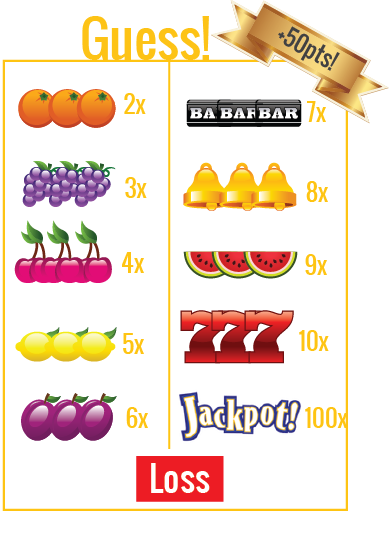
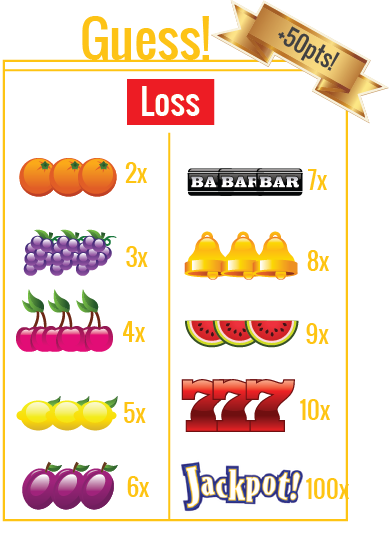
Updates to scoreboard positioning.

diff --git a/cstcg_slot_functions.py b/cstcg_slot_functions.py
@@ -164,17 +164,17 @@ def process_rtb(positions,index, stage, hold_on):
     return events
 
 def selector(c,task,positions,index,selector_pos):
-    sel_positions=[(8,445), # orange
-               (8,525), # grape
-               (8,608), # cherry
-               (8,679), # lemon
-               (8,755), # plum
-               (180,445), # bar
-               (180,530), # bell
-               (180,600), # watermelon
-               (180,682), # seven
-               (180,755), # jackpot
-               (100,800)] # loss
+    sel_positions=[(100,445), # loss
+               (8,530), # orange
+               (8,608), # grape 
+               (8,679), # cherry 
+               (8,755), # lemon 
+               (8,800), # plum
+               (180,530), # bar 
+               (180,600), # bell 
+               (180,682), # watermelon
+               (180,755), # seven
+               (180,800)] # jackpot
 
     pos = sel_positions[selector_pos-1]
     selected = False
@@ -254,19 +254,6 @@ def get_screen_elements(c, task):
 
     positions['pull_x'] = c.center_x+(sizes['sh']/9) - x0
     positions['pull_y'] = c.center_y+(sizes['sh']/2)-(sizes['sbh']*1.1) - hold_offset
-    # else:
-    #     positions['clear_x'] = positions['bet_5_x']
-    #     positions['clear_y'] = c.center_y+(sizes['sh']/3)+2*sizes['sbw']/3 - hold_offset
-    #     positions['bet_5_x'] = c.left_center_x+(sizes['sh']/9) - x0
-    #     positions['bet_5_y'] = c.center_y+(sizes['sh']/3) - hold_offset
-
-    #     positions['bet_10_x'] = c.left_center_x+(0.32*sizes['sh']) - x0
-    #     positions['bet_10_y'] = c.center_y+(sizes['sh']/3) - hold_offset
-    #     positions['stop_y'] = c.center_y+(sizes['sh']/3) - hold_offset
-
-    #     positions['pull_x'] = c.center_x+(sizes['sh']/9) - x0
-    #     positions['pull_y'] = c.center_y+(sizes['sh']/3)-(sizes['sbh']*1.1) - hold_offset
-    
     positions['bet_screen_x'] = positions['bet_5_x']
     positions['bet_screen_y'] = positions['pull_y']
 
@@ -544,19 +531,19 @@ def instruction_screen(c,positions,sizes,RTB):
                 if event.type in (MOUSEBUTTONUP, MOUSEBUTTONDOWN):
                     if 'click' in next_button.handleEvent(event): 
                         counter += 1
-                        if counter == 8:
+                        if counter == len(instructions)+1:
                             instructions_done = True
                     elif 'click' in back_button.handleEvent(event):
                         if counter > 1:
                             counter  = counter - 1
-                if event.type == MOUSEBUTTONUP and counter < 8:
+                if event.type == MOUSEBUTTONUP and counter <= len(instructions):
                     c.blank_screen()
                     c.screen.blit(instructions[str(counter)],(c.center_x-instructions[str(counter)].get_width()/2,\
                         c.top_y-instructions[str(counter)].get_height()/8))  
                     if counter > 1:
                         back_button.draw(c.screen)
                     
-                    if counter == 7:
+                    if counter == len(instructions):
                         finish_button.draw(c.screen)
                     else:
                         next_button.draw(c.screen)
@@ -792,9 +779,9 @@ def process_result(c,positions,buttons,sizes,task, RTB):
 
     
     if task['result_sequence'][task['trial']][0] == '1':
-        if task['guess_trace'][task['trial']]+1 == int(task['result_sequence'][task['trial']][2]):
+        if task['guess_trace'][task['trial']] == int(task['result_sequence'][task['trial']][2]):
             reward = reward + 50
-    elif task['result_sequence'][task['trial']][0] == '0' and task['guess_trace'][task['trial']] == 11:
+    elif task['result_sequence'][task['trial']][0] == '0' and task['guess_trace'][task['trial']] == 1:
         reward = reward + 50
 
     if int(task['result_sequence'][task['trial']][4]) == 1:
@@ -1020,9 +1007,6 @@ def spin_wheels(c, positions, buttons, task, RTB):
                 show4 = True
             elif n-10 < round(time.time()*1000) % n < n and show4:
                 c.screen.blit(machines[str(task['machine'])],(positions['machine']['base_x'],positions['machine']['base_y']))
-                # if task['machine'] == 2:
-                #     bet_label = c.title.render("Bet",True,RED) 
-                #     c.screen.blit(bet_label,(positions['bet_screen_x']+5, positions['bet_screen_y']-60))
                 pygame.display.flip()
                 show4 = False
                 show1 = True

diff --git a/cstcg_slot_machine.py b/cstcg_slot_machine.py
@@ -29,10 +29,11 @@ ue = u"ü";
 GOLD   = ( 254, 195,  13)
 
 leversound = pygame.mixer.Sound('./sounds/lever.wav')
-background_music[0] = pygame.mixer.Sound('./sounds/machine1_music.wav')
-background_music[1] = pygame.mixer.Sound('./sounds/machine2_music.wav')
-background_music[2] = pygame.mixer.Sound('./sounds/machine2_music.wav')
-background_music[3] = pygame.mixer.Sound('./sounds/machine2_music.wav')
+background_music = []
+background_music.append(pygame.mixer.Sound('./sounds/machine1_music.wav'))
+background_music.append(pygame.mixer.Sound('./sounds/machine2_music.wav'))
+background_music.append(pygame.mixer.Sound('./sounds/machine2_music.wav'))
+background_music.append(pygame.mixer.Sound('./sounds/machine2_music.wav'))
 for i in range(4):
     background_music[i].set_volume(0.1)
 
@@ -130,7 +131,7 @@ for trial in range(START_TRIAL,NUM_TRIALS):
     if trial == 0:
         begin_training_screen(c)
         background_music[0].play(100,0)
-    if trial < task_block_sequence[0]:
+    elif trial < task_block_sequence[0]:
         task['machine'] = 5
         task['wheel_hold_buttons'] = wheel_hold_bool[0]
     elif task_block_sequence[0] <= trial < task_block_sequence[1]:
@@ -243,7 +244,7 @@ for trial in range(START_TRIAL,NUM_TRIALS):
                     if 'click' in buttons['add_five'].handleEvent(event):  
                         c.press_sound.play()
                         task['trial_stage'] = 'bet'
-                        task['bet_size'][trial] += 10
+                        task['bet_size'][trial] += 50
                         eeg_trigger(c,task,'bet+')
                         task['bet_sequence'].append(10)
                         task = update_account(c,positions, sizes, task)
